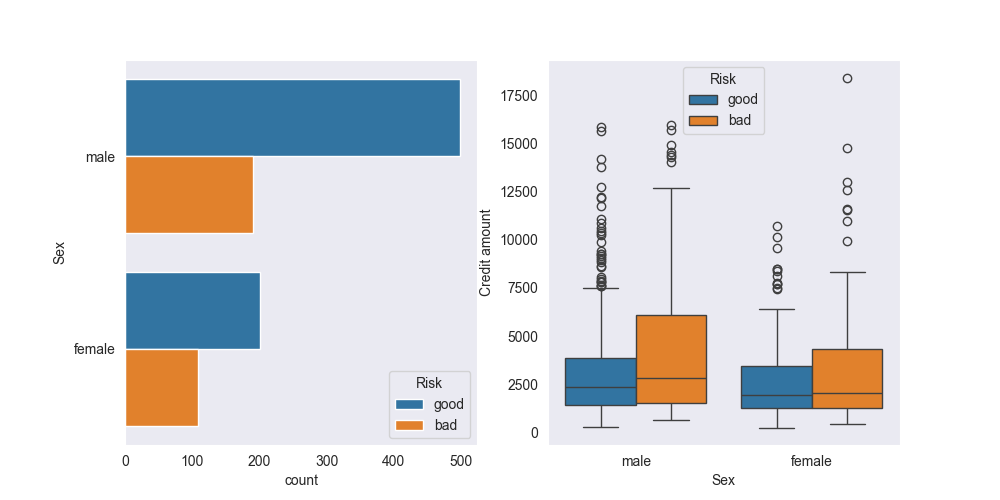
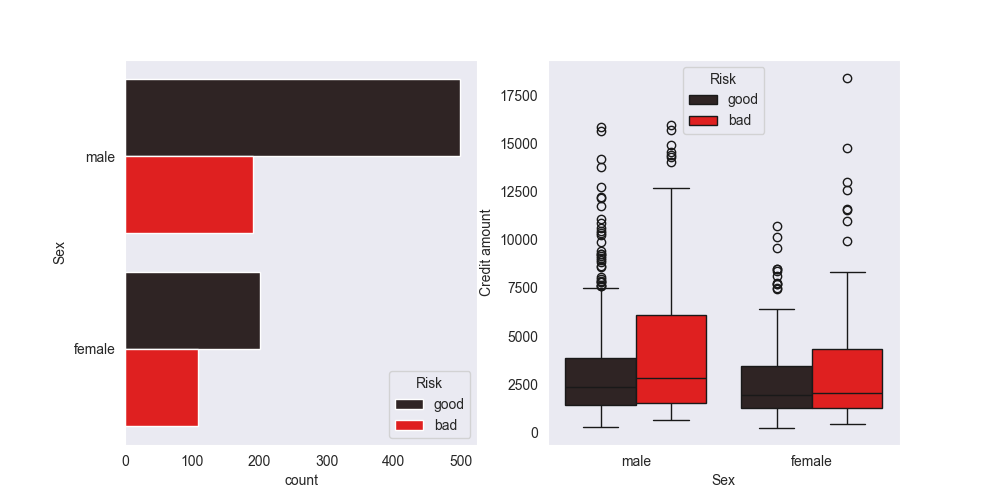
Changes in readme file

diff --git a/Data_Analysis.py b/Data_Analysis.py
@@ -31,10 +31,16 @@ print(data.isnull().sum())
 
 
 #plotting the counts of categorical data
-fig, axes = plt.subplots(figsize=(50,4), nrows=1, ncols=6)
-for i, cat in enumerate(list_of_categorical_cols):
-    sns.countplot(data[cat], ax=axes[i])
-    axes[i].tick_params(axis='y', labelsize=7)
+fig, axes = plt.subplots(figsize=(20,10), nrows=2, ncols=3)
+colour = ["Red","Blue","Green","Yellow","Orange","Pink"]
+k = 0
+for i in range(2):
+    for j in range(3):
+        cat = list_of_categorical_cols[k]
+        sns.set_style("dark")
+        sns.countplot(data[cat], ax=axes[i][j], color=colour[k])
+        k += 1
+plt.tight_layout()
 fig.savefig(r"D:\Project\GradientBoost\Visualisations\CountPlots.png")
 
 
@@ -55,29 +61,31 @@ plt.tight_layout()
 fig.savefig(r"D:\Project\GradientBoost\Visualisations\Age.png")
 
 #Creating a box plot between age and credit amount
+fig = plt.figure(figsize=(8,8))
+axes = fig.add_axes([0.1,0.1,0.9,0.9])
 interval = (18, 25, 35, 60, 120)
 cats = ['Student', 'Young', 'Adult', 'Senior']
 data["age_cat"] = pd.cut(data["Age"],interval,labels=cats)
-sns.boxplot(x="age_cat", y="Credit amount", hue="Risk", data=data)
-plt.savefig(r"D:\Project\GradientBoost\Visualisations\Cat_age.png")
+sns.boxplot(x="age_cat", y="Credit amount", hue="Risk", data=data,ax=axes,color="Blue")
+fig.savefig(r"D:\Project\GradientBoost\Visualisations\Cat_age.png")
 
 
 #Housing attribute analysis
 fig, axes = plt.subplots(figsize=(10,5),nrows=1,ncols=2)
 df_good = data.loc[data["Risk"] == 'good']["Housing"]
 df_bad = data.loc[data["Risk"] == 'bad']["Housing"]
-sns.countplot(data=data,y="Housing",hue="Risk", ax=axes[0])
-sns.violinplot(data=data,x="Housing",y="Credit amount",hue="Risk",split=True, ax=axes[1])
+sns.countplot(data=data,y="Housing",hue="Risk", ax=axes[0],color="Blue")
+sns.violinplot(data=data,x="Housing",y="Credit amount",hue="Risk",split=True, ax=axes[1],color="Blue")
 fig.savefig(r"D:\Project\GradientBoost\Visualisations\Housing.png")
 
 #Gender attribute analysis
 fig, axes = plt.subplots(figsize=(10,5),nrows=1,ncols=2)
-sns.countplot(data=data,y="Sex",hue="Risk",ax=axes[0])
-sns.boxplot(data=data,x="Sex",y="Credit amount",hue='Risk',ax=axes[1])
+sns.countplot(data=data,y="Sex",hue="Risk",ax=axes[0],color="Red")
+sns.boxplot(data=data,x="Sex",y="Credit amount",hue='Risk',ax=axes[1],color="Red")
 fig.savefig(r"D:\Project\GradientBoost\Visualisations\Gender.png")
 
 #Job attribute analysis
-fig, axes = plt.subplots(figsize=(20,5),nrows=1,ncols=3)
+fig, axes = plt.subplots(figsize=(15,5),nrows=1,ncols=3)
 sns.countplot(data=data,y="Job",hue="Risk",ax=axes[0])
 sns.boxplot(data=data,x="Job",y="Credit amount",hue="Risk",ax=axes[1])
 sns.violinplot(data=data,x="Job",y="Credit amount",hue="Risk",ax=axes[2],split=True)
@@ -88,23 +96,21 @@ fig = plt.figure(figsize=(6,6))
 good_cred = (data.loc[data["Risk"] == "good"]["Credit amount"])
 bad_cred = (data.loc[data["Risk"] == "bad"]["Credit amount"])
 sns.distplot(good_cred,hist=False,label="good")
-sns.rugplot(good_cred)
 sns.distplot(bad_cred,color='Orange',hist=False,label="bad")
-sns.rugplot(bad_cred)
 plt.legend()
 fig.savefig(r"D:\Project\GradientBoost\Visualisations\Credit_dist.png")
 
 #Saving accounts attribute
-fig, axes = plt.subplots(figsize=(20,5),nrows=1,ncols=3)
-sns.countplot(data=data,y="Saving accounts",hue="Risk",ax=axes[0])
-sns.boxplot(data=data,x="Saving accounts",y="Credit amount",hue="Risk",ax = axes[1])
-sns.boxplot(data=data,x="Saving accounts",y="Age",hue="Risk",ax=axes[2])
+fig, axes = plt.subplots(figsize=(15,5),nrows=1,ncols=3)
+sns.countplot(data=data,y="Saving accounts",hue="Risk",ax=axes[0],color="Green")
+sns.boxplot(data=data,x="Saving accounts",y="Credit amount",hue="Risk",ax = axes[1],color="Green")
+sns.boxplot(data=data,x="Saving accounts",y="Age",hue="Risk",ax=axes[2],color="Green")
 fig.savefig(r"D:\Project\GradientBoost\Visualisations\Saving_acc.png")
 
 #purpose
-fig, axes = plt.subplots(figsize=(20,5),nrows=1,ncols=2)
-sns.countplot(data=data,y="Purpose",hue="Risk",ax=axes[0])
-sns.boxplot(data=data,x="Purpose",y="Credit amount",hue="Risk",ax = axes[1])
+fig, axes = plt.subplots(figsize=(15,5),nrows=1,ncols=2)
+sns.countplot(data=data,y="Purpose",hue="Risk",ax=axes[0],color="Orange")
+sns.boxplot(data=data,x="Purpose",y="Credit amount",hue="Risk",ax = axes[1],color="Orange")
 fig.savefig(r"D:\Project\GradientBoost\Visualisations\purpose.png")
 
 #duration
@@ -120,9 +126,9 @@ fig.savefig(r"D:\Project\GradientBoost\Visualisations\duration.png")
 
 #checking account
 fig, axes = plt.subplots(figsize=(10,20),nrows=3,ncols=1)
-sns.countplot(data=data,x="Checking account",hue="Risk",ax=axes[0])
-sns.violinplot(data=data,x="Checking account",y="Age",hue="Risk",split=True,ax=axes[1])
-sns.boxplot(data=data,x="Checking account",y="Credit amount",hue="Risk",ax=axes[2])
+sns.countplot(data=data,x="Checking account",hue="Risk",ax=axes[0],color="Yellow")
+sns.violinplot(data=data,x="Checking account",y="Age",hue="Risk",split=True,ax=axes[1],color="Yellow")
+sns.boxplot(data=data,x="Checking account",y="Credit amount",hue="Risk",ax=axes[2],color="Yellow")
 fig.savefig(r"D:\Project\GradientBoost\Visualisations\Checking_acc.png")
 
 data, cols = one_hot_encoder(data)

diff --git a/README.md b/README.md
@@ -24,3 +24,66 @@ After doing this we get this.
 ![output_4.png](Outputs/output_4.png)
 
 ## Visualisation of the data
+1. First we will see the count of each categories in the categorical columns.
+
+![CountPlots.png](Visualisations/CountPlots.png)
+
+2. Then we get the distribution of age.
+
+![Age.png](Visualisations/Age.png)
+
+3. We will add age categorical column i.e. for 18-25 -> young, 25-35 -> adult, etc and then we create a box plot of this column with the credit amount.
+
+![Cat_age.png](Visualisations/Cat_age.png)
+
+Here we can see some outliers and the median line of each category.
+
+4. Next we will look into the housing attribute.
+
+![Housing.png](Visualisations/Housing.png)
+
+5. The gender/Sex attribute.
+
+![Gender.png](Visualisations/Gender.png)
+
+6. The job attribute.
+
+![Job.png](Visualisations/Job.png)
+
+7. Now we will see the distribution of credit amount.
+
+![Credit_dist.png](Visualisations/Credit_dist.png)
+
+8. Saving account attribute.
+
+![Saving_acc.png](Visualisations/Saving_acc.png)
+
+9. Purpose attribute.
+
+![purpose.png](Visualisations/purpose.png)
+
+10. Duration attribute.
+
+![duration.png](Visualisations/duration.png)
+
+11. Checking account attribute.
+
+![Checking_acc.png](Visualisations/Checking_acc.png)
+
+## One hot encoding
+
+One-Hot Encoding is a method used in machine learning and data preprocessing to convert categorical data into a binary format that can be easily processed by algorithms.
+To do this we import a file named as oneHotEncoding.py where we defined our function to convert categories in binary format.
+Then we pass our data to this function and the resultant new columns are this.
+
+['Sex_female', 'Sex_male', 'Housing_free', 'Housing_own', 'Housing_rent', 'Saving accounts_little', 'Saving accounts_moderate', 'Saving accounts_quite rich', 'Saving accounts_rich', 'Checking account_little', 'Checking account_moderate', 'Checking account_rich', 'Purpose_business', 'Purpose_car', 'Purpose_domestic appliances', 'Purpose_education', 'Purpose_furniture/equipment', 'Purpose_radio/TV', 'Purpose_repairs', 'Purpose_vacation/others', 'Risk_bad', 'Risk_good', 'age_cat_Student', 'age_cat_Young', 'age_cat_Adult', 'age_cat_Senior']
+
+## HeatMap
+
+Now we will create a heatmap which correlates each column with other columns.
+
+The heatmap looks like this.
+
+![Heatmap.png](Visualisations/Heatmap.png)
+
+## Training the Gradient boost model
